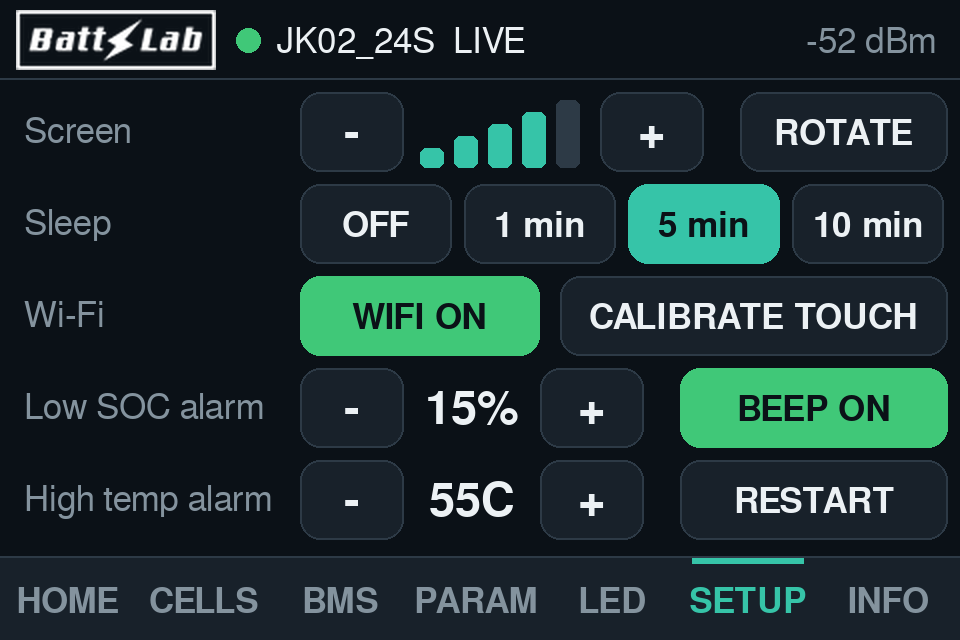
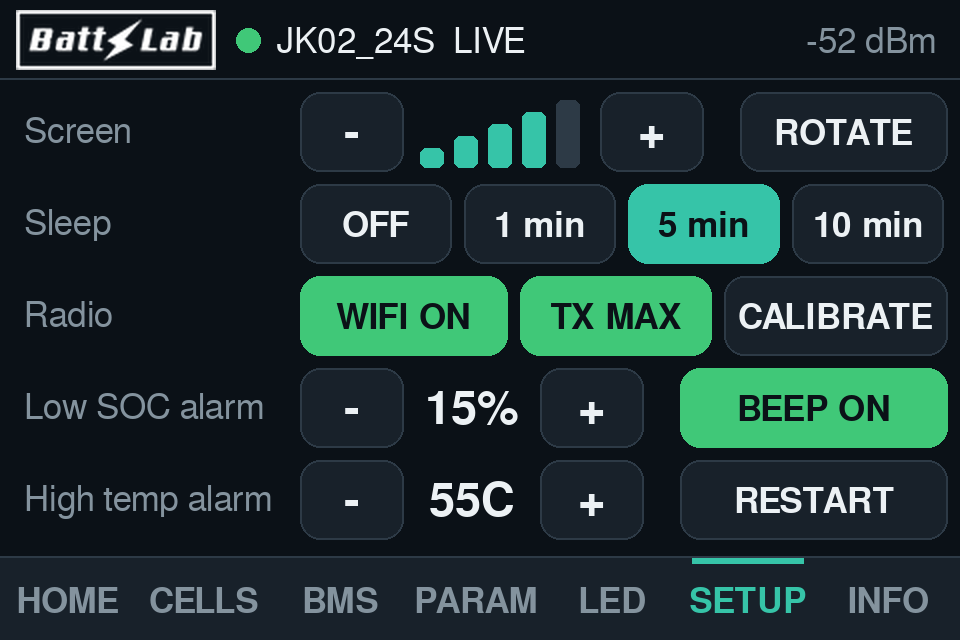
v1.9.1: maximum radio TX power (BLE chip max, Wi-Fi 19.5 dBm) with TX MAX/LOW toggle in SETUP
Claude-Session: https://claude.ai/code/session_01VYdSakDTk2CeAZPFHF5uE7

Changed region(s): [[0.3438, 0.4062, 0.9688, 0.5625], [0.0312, 0.4688, 0.125, 0.5312]]

diff --git a/src/main.cpp b/src/main.cpp
@@ -8,6 +8,7 @@
 #include <Arduino.h>
 #include <ArduinoJson.h>
 #include <NimBLEDevice.h>
+#include <esp_bt.h>
 #include <Preferences.h>
 #include <WebServer.h>
 #include <WiFi.h>
@@ -15,9 +16,9 @@
 #include <freertos/queue.h>
 #include <freertos/semphr.h>
 #ifdef BATTLAB_CYD35
-#define BATTLAB_FW "1.9.0-cyd35"
+#define BATTLAB_FW "1.9.1-cyd35"
 #else
-#define BATTLAB_FW "1.9.0-s3"
+#define BATTLAB_FW "1.9.1-s3"
 #endif
 WebServer web(80);
 // Why the chip restarted last time (shown on screen / API to diagnose resets).
@@ -199,6 +200,42 @@ String asciiField(const uint8_t *b, size_t n) {
     s += b[i] >= 32 && b[i] < 127 ? char(b[i]) : '?';
   return s;
 }
+// ---- Radio transmit power ------------------------------------------------
+// MAX (default): Bluetooth at the chip maximum, Wi-Fi at 19.5 dBm.
+// LOW: Bluetooth +3 dBm, Wi-Fi 8.5 dBm, for weak power supplies.
+#if CONFIG_IDF_TARGET_ESP32S3
+static const esp_power_level_t BLE_MAX_LEVEL = ESP_PWR_LVL_P21; // S3: about +20 dBm
+static const char *BLE_MAX_TEXT = "+20 dBm";
+#else
+static const esp_power_level_t BLE_MAX_LEVEL = ESP_PWR_LVL_P9;  // ESP32: +9 dBm
+static const char *BLE_MAX_TEXT = "+9 dBm";
+#endif
+static bool radioMax = true;
+static volatile bool bleTxApplyWanted = false;
+bool radioMaxPower() { return radioMax; }
+const char *bleTxText() { return radioMax ? BLE_MAX_TEXT : "+3 dBm"; }
+static void applyBleTxPower() { // call from the BLE task after init / connect
+  esp_power_level_t l = radioMax ? BLE_MAX_LEVEL : ESP_PWR_LVL_P3;
+  esp_ble_tx_power_set(ESP_BLE_PWR_TYPE_DEFAULT, l);
+  esp_ble_tx_power_set(ESP_BLE_PWR_TYPE_ADV, l);
+  esp_ble_tx_power_set(ESP_BLE_PWR_TYPE_SCAN, l);
+  for (int i = 0; i < 3; i++)
+    esp_ble_tx_power_set(esp_ble_power_type_t(ESP_BLE_PWR_TYPE_CONN_HDL0 + i), l);
+}
+static void applyWifiTxPower() {
+  if (WiFi.getMode() != WIFI_OFF)
+    WiFi.setTxPower(radioMax ? WIFI_POWER_19_5dBm : WIFI_POWER_8_5dBm);
+}
+void radioSetMaxPower(bool on) {
+  radioMax = on;
+  Preferences p;
+  p.begin("battlab-jk", false);
+  p.putBool("txmax", on);
+  p.end();
+  applyWifiTxPower();
+  bleTxApplyWanted = true; // BLE task applies it
+}
+
 // ---- BMS write commands (queued by web/screen, executed by the BLE task) --
 struct BmsCmd {
   bool isSwitch;
@@ -244,6 +281,7 @@ void bleWorker(void *) {
 #endif
   NimBLEDevice::init("BATTLAB");
   NimBLEDevice::setMTU(247);
+  applyBleTxPower();
   auto scan = NimBLEDevice::getScan();
   scan->setActiveScan(true);
   scan->setMaxResults(24);
@@ -412,6 +450,10 @@ void bleWorker(void *) {
       dropped++;
   };
   for (;;) {
+    if (bleTxApplyWanted) {
+      bleTxApplyWanted = false;
+      applyBleTxPower();
+    }
     bool change, wantScan, wantRead;
     {
       Guard g;
@@ -695,6 +737,7 @@ void bleWorker(void *) {
             Guard g;
             shared.linked = true;
             shared.state = "WAITING_DEVICE_INFO";
+            applyBleTxPower(); // per-connection power on the new link
             shared.connectionAuth = "WAITING_INFO";
             shared.parameterAuth = "LOCKED";
             shared.bleError = 0;
@@ -1210,9 +1253,7 @@ static void wifiStartAp() {
   WiFi.softAPConfig(IPAddress(192, 168, 4, 1), IPAddress(192, 168, 4, 1),
                     IPAddress(255, 255, 255, 0));
   WiFi.softAP("BATTLAB");
-#ifdef BATTLAB_CYD35
-  WiFi.setTxPower(WIFI_POWER_8_5dBm); // lower peak current, still fine nearby
-#endif
+  applyWifiTxPower();
 }
 bool wifiEnabled() { return wifiOn; }
 void wifiSetEnabled(bool on) {
@@ -1328,6 +1369,8 @@ void takeDisplaySnapshot(DisplaySnap &o) {
     o.connAuth = shared.connectionAuth;
   }
   o.wifiOn = wifiOn;
+  o.radioMax = radioMax;
+  o.bleTx = bleTxText();
   {
     Guard g;
     o.jk = shared.jk;
@@ -1355,6 +1398,7 @@ void setup() {
   cfg.type = prefs.getUChar("type", 0);
 #ifdef BATTLAB_DISPLAY
   wifiOn = prefs.getBool("wifi", true); // can be switched off on the screen
+  radioMax = prefs.getBool("txmax", true);
 #endif
   bool apStarted = false;
   if (wifiOn) {

diff --git a/src/display.cpp b/src/display.cpp
@@ -663,8 +663,8 @@ static void ledTouch(int x, int y) {
 
 // -------------------------------------------------------------- SETUP ----
 static const Btn S_BL_MINUS = {150, 46, 52, 40}, S_BL_PLUS = {300, 46, 52, 40},
-                 S_ROTATE = {370, 46, 104, 40}, S_WIFI = {150, 138, 120, 40},
-                 S_CAL = {280, 138, 194, 40}, S_SOC_MINUS = {150, 184, 52, 40},
+                 S_ROTATE = {370, 46, 104, 40}, S_WIFI = {150, 138, 104, 40},
+                 S_TX = {260, 138, 96, 40}, S_CAL = {362, 138, 112, 40}, S_SOC_MINUS = {150, 184, 52, 40},
                  S_SOC_PLUS = {270, 184, 52, 40}, S_BEEP = {340, 184, 134, 40},
                  S_T_MINUS = {150, 230, 52, 40}, S_T_PLUS = {270, 230, 52, 40},
                  S_RESTART = {340, 230, 134, 40};
@@ -679,7 +679,7 @@ static void valueBox(int x, int y, const String &v) {
 }
 static void setupPage(const DisplaySnap &d, bool force) {
   String key = String(dcfg.bl) + dcfg.sleep + dcfg.rot + dcfg.lowSoc + "/" +
-               dcfg.hiTemp + dcfg.beep + d.wifiOn;
+               dcfg.hiTemp + dcfg.beep + d.wifiOn + (d.radioMax ? "M" : "L");
   if (!force && key == setupKey) return;
   setupKey = key;
   clearContent();
@@ -694,9 +694,10 @@ static void setupPage(const DisplaySnap &d, bool force) {
   label(12, 112, "Sleep");
   const char *sl[4] = {"OFF", "1 min", "5 min", "10 min"};
   for (int i = 0; i < 4; i++) button(sleepBtn(i), sl[i], dcfg.sleep == i);
-  label(12, 158, "Wi-Fi");
+  label(12, 158, "Radio");
   button(S_WIFI, d.wifiOn ? "WIFI ON" : "WIFI OFF", d.wifiOn, C_GOOD);
-  button(S_CAL, "CALIBRATE TOUCH", false);
+  button(S_TX, d.radioMax ? "TX MAX" : "TX LOW", d.radioMax, C_GOOD);
+  button(S_CAL, "CALIBRATE", false);
   label(12, 204, "Low SOC alarm");
   button(S_SOC_MINUS, "-", false, 0, &fonts::FreeSansBold12pt7b);
   valueBox(204, 184, dcfg.lowSoc ? String(dcfg.lowSoc) + "%" : String("off"));
@@ -718,6 +719,10 @@ static void setupTouch(const DisplaySnap &d, int x, int y) {
   else if (hit(S_WIFI, x, y)) {
     wifiSetEnabled(!d.wifiOn);
     showToast(d.wifiOn ? "Wi-Fi hotspot off" : "Wi-Fi BATTLAB on");
+    changed = false;
+  } else if (hit(S_TX, x, y)) {
+    radioSetMaxPower(!d.radioMax);
+    showToast(d.radioMax ? "Radio power LOW (weak power supply)" : "Radio power MAX");
     changed = false;
   } else if (hit(S_CAL, x, y)) { wantCalibrate = true; changed = false; }
   else if (hit(S_SOC_MINUS, x, y)) dcfg.lowSoc = dcfg.lowSoc >= 5 ? dcfg.lowSoc - 5 : 0;
@@ -758,7 +763,7 @@ static void info(const DisplaySnap &d, bool) {
   infoRow(y, "BMS", d.detected.length() ? d.detected : String("not identified")); y += 29;
   infoRow(y, "Model", d.model.length() ? d.model : String("-")); y += 29;
   infoRow(y, "Bluetooth", (d.mac.length() ? d.mac : String(d.automatic ? "auto find" : "none")) +
-                              "  " + d.protocol); y += 29;
+                              "  " + d.protocol + "  TX " + d.bleTx); y += 29;
   infoRow(y, "State", d.state + "   rx " + d.rxBytes + " B, " + d.good + " frames"); y += 29;
   infoRow(y, "Probe", d.probe); y += 29;
   infoRow(y, "Last reset", String(d.resetReason) + "   RAM " + (d.freeHeap / 1024) +

diff --git a/tools/render_screens.py b/tools/render_screens.py
@@ -202,8 +202,9 @@ def setup():
     s.text('Sleep', 12, 112, F9, MUTED)
     for i, t in enumerate(['OFF', '1 min', '5 min', '10 min']):
         s.button((150 + i*82, 92, 76, 40), t, i == 2)
-    s.text('Wi-Fi', 12, 158, F9, MUTED)
-    s.button((150, 138, 120, 40), 'WIFI ON', True, GOOD); s.button((280, 138, 194, 40), 'CALIBRATE TOUCH')
+    s.text('Radio', 12, 158, F9, MUTED)
+    s.button((150, 138, 104, 40), 'WIFI ON', True, GOOD); s.button((260, 138, 96, 40), 'TX MAX', True, GOOD)
+    s.button((362, 138, 112, 40), 'CALIBRATE')
     s.text('Low SOC alarm', 12, 204, F9, MUTED)
     s.button((150, 184, 52, 40), '-', f=F12B); s.text('15%', 236, 205, F12B, TEXT, 'mm'); s.button((270, 184, 52, 40), '+', f=F12B)
     s.button((340, 184, 134, 40), 'BEEP ON', True, GOOD)
@@ -214,7 +215,7 @@ def setup():
 
 def info():
     s = Scr(); header(s, 'JK02_24S  LIVE')
-    rows = [('BMS', 'JK02_24S'), ('Model', 'JK_BD6A24S20P'), ('Bluetooth', '10:23:81:A9:C0:D6  AUTO'),
+    rows = [('BMS', 'JK02_24S'), ('Model', 'JK_BD6A24S20P'), ('Bluetooth', '10:23:81:A9:C0:D6  AUTO  TX +9 dBm'),
             ('State', 'LIVE   rx 48210 B, 162 frames'), ('Probe', 'identifying'),
             ('Last reset', 'power on   RAM 61k free, min 48k'), ('Wi-Fi', 'BATTLAB  192.168.4.1  (1)'),
             ('Firmware', 'cyd35   up 42 min')]

diff --git a/include/display.h b/include/display.h
@@ -21,7 +21,11 @@ struct DisplaySnap {
   bool jkFresh = false;
   uint8_t family = 0; // 0 unknown, 1 JK, 2 ANT, 3 JBD
   String lastWrite;
+  bool radioMax = true;
+  const char *bleTx = "";
 };
+bool radioMaxPower();
+void radioSetMaxPower(bool on); // MAX: BLE chip maximum + Wi-Fi 19.5 dBm
 
 // BMS writes (validated, then queued to the Bluetooth task). Return nullptr
 // when accepted, otherwise a short reason.
